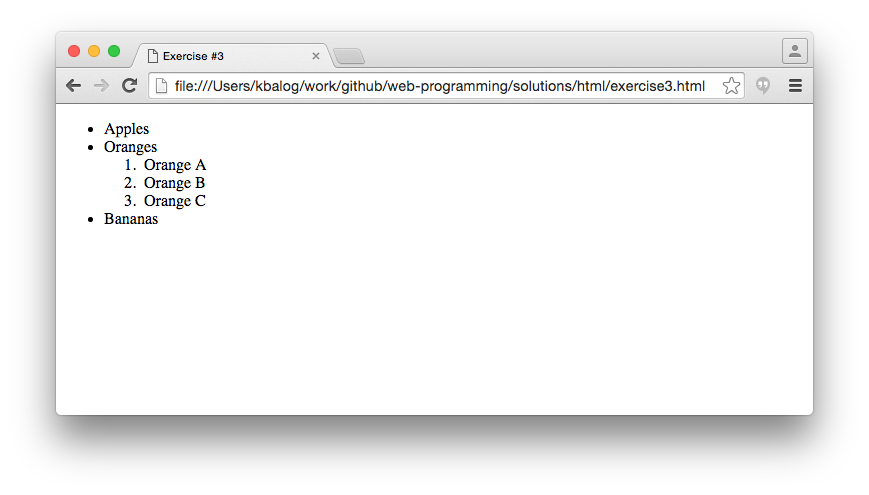
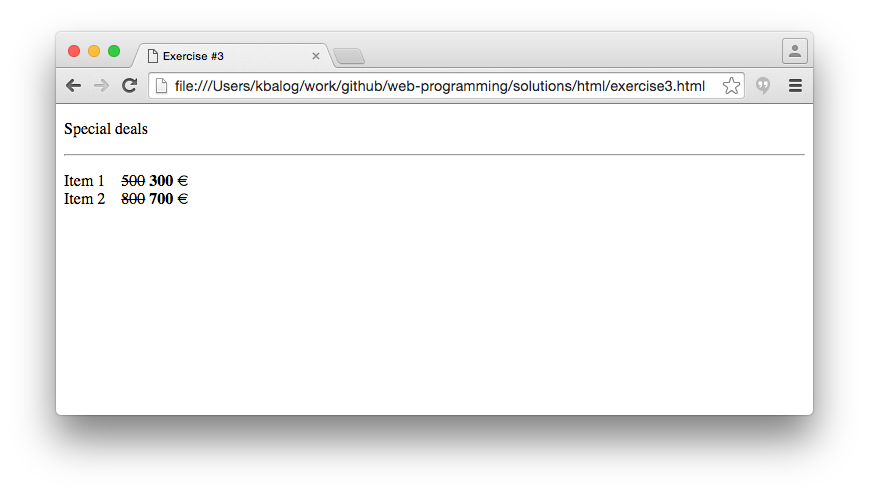
HTML exercises

Changed region(s): [[0.0621, 0.2424, 0.2486, 0.4545]]

diff --git a/solutions/html/exercise7.html b/solutions/html/exercise7.html
@@ -1,0 +1,55 @@
+<!DOCTYPE html>
+<html>
+<head>
+    <title>Exercise #7</title>
+</head>
+<body>
+    <h1>Exercises #1-#6</h1>
+    <table border="1">
+        <thead>
+            <tr>
+                <th>Number</th>
+                <th>Title</th>
+                <th>File</th>
+            </tr>
+        </thead>
+        <tbody>
+            <tr>
+                <td>#1</td>
+                <td>Hello world</td>
+                <td><a href="exercise1.html" target="_blank">exercise1.html</a></td>
+            </tr>
+            <tr>
+                <td>#2</td>
+                <td>Headings and paragraphs</td>
+                <td><a href="exercise2.html" target="_blank">exercise2.html</a></td>
+            </tr>
+            <tr>
+                <td>#3</td>
+                <td>Text formatting</td>
+                <td><a href="exercise3.html" target="_blank">exercise3.html</a></td>
+            </tr>
+            <tr>
+                <td>#4</td>
+                <td>Lists</td>
+                <td><a href="exercise4.html" target="_blank">exercise4.html</a></td>
+            </tr>
+            <tr>
+                <td>#4b</td>
+                <td>Advanced lists</td>
+                <td><a href="exercise4b.html" target="_blank">exercise4b.html</a></td>
+            </tr>
+            <tr>
+                <td>#5</td>
+                <td>Tables</td>
+                <td><a href="exercise5.html" target="_blank">exercise5.html</a></td>
+            </tr>
+            <tr>
+                <td>#6</td>
+                <td>Links</td>
+                <td><a href="exercise6.html" target="_blank">exercise6.html</a></td>
+            </tr>
+        </tbody>
+    </table>
+</body>
+</html>

diff --git a/solutions/html/exercise5.html b/solutions/html/exercise5.html
@@ -1,0 +1,58 @@
+<!DOCTYPE html>
+<html>
+<head>
+    <title>Exercise #5</title>
+</head>
+<body>
+
+<!-- first table -->
+<table border="1">
+    <thead>
+        <tr>
+            <th>HeadCol 1</th>
+            <th>HeadCol 2</th>
+            <th>HeadCol 3</th>
+        </tr>
+    </thead>
+    <tbody>
+        <tr>
+            <td>Row 1, Col 1</td>
+            <td>Row 1, Col 2</td>
+            <td>Row 1, Col 3</td>
+        </tr>
+        <tr>
+            <td>Row 2, Col 1</td>
+            <td>Row 2, Col 2</td>
+            <td>Row 2, Col 3</td>
+        </tr>
+    </tbody>
+</table>
+
+<!-- some empty space between the tables -->
+<p>&nbsp;</p>
+
+<!-- second table -->
+<table border="1">
+    <tr>
+        <td rowspan="2">Row 1-2, Col 1</td>
+        <td>Row 1, Col 2</td>
+        <td>Row 1, Col 3</td>
+        <td>Row 1, Col 4</td>
+    </tr>
+    <tr>
+        <td rowspan="2" colspan="2">Row 2-3, Col 2-3</td>
+        <td>Row 2, Col 4</td>
+    </tr>
+    <tr>
+        <td>Row 3, Col 1</td>
+        <td>Row 3, Col 4</td>
+    </tr>
+    <tr>
+        <td>Row 4, Col 1</td>
+        <td>Row 4, Col 2</td>
+        <td colspan="2">Row 4, Col 3-4</td>
+    </tr>
+</table>
+
+</body>
+</html>

diff --git a/solutions/html/exercise3.html b/solutions/html/exercise3.html
@@ -4,16 +4,14 @@
     <title>Exercise #3</title>
 </head>
 <body>
-    <ul>
-        <li>Apples</li>
-        <li>Oranges
-            <ol>
-                <li>Orange A</li>
-                <li>Orange B</li>
-                <li>Orange C</li>
-            </ol>
-        </li>
-        <li>Bananas</li>
-    </ul>
+    <p>
+        Special deals
+    </p>
+    <hr/>
+    <p>
+        Item 1 &nbsp;&nbsp; <s>500</s> <strong>300</strong> &euro;
+        <br/>
+        Item 2 &nbsp;&nbsp; <s>800</s> <strong>700</strong> &euro;
+    </p>
 </body>
 </html>

diff --git a/solutions/html/exercise4.html b/solutions/html/exercise4.html
@@ -1,0 +1,19 @@
+<!DOCTYPE html>
+<html>
+<head>
+    <title>Exercise #4</title>
+</head>
+<body>
+    <ul>
+        <li>Apples</li>
+        <li>Oranges
+            <ol>
+                <li>Orange A</li>
+                <li>Orange B</li>
+                <li>Orange C</li>
+            </ol>
+        </li>
+        <li>Bananas</li>
+    </ul>
+</body>
+</html>

diff --git a/solutions/html/exercise6.html b/solutions/html/exercise6.html
@@ -1,0 +1,13 @@
+<!DOCTYPE html>
+<html>
+<head>
+    <title>Exercise #6</title>
+</head>
+<body>
+    <ul>
+        <li><a href="http://www.uis.no">UiS</a></li>
+        <li><a href="https://www.google.com" target="_blank">Google</a></li>
+        <li><a href="mailto:contact@address.com">Contact</a></li>
+    </ul>
+</body>
+</html>

diff --git a/solutions/html/exercise4b.html b/solutions/html/exercise4b.html
@@ -1,7 +1,7 @@
 <!DOCTYPE html>
 <html>
 <head>
-    <title>Exercise #3b</title>
+    <title>Exercise #4b</title>
 </head>
 <body>
     <ul style="list-style-type:square">

diff --git a/exercises/html/README.md b/exercises/html/README.md
@@ -28,16 +28,25 @@ Create the following HTML page. You can use a text editor or the [w3schools try-
 ![Exercise2](images/exercise2.png)
 
 
-## Exercise #3: Lists
+## Exercise #3: Text formatting
+
+Create the HTML page below.
+
+  - Hint: use `<hr>`, `<br>`, `<strong>`, `<s>`, `&nbsp;`, `&euro;`.
+
+![Exercise3](images/exercise3.png)
+
+
+## Exercise #4: Lists
 
 Create an ordered list nested inside an unordered list.
 
-  - Use the tags `<ol>`, `<ul>`, `<li>`.
+  - Tags to use: `<ol>`, `<ul>`, `<li>`.
 
-![Exercise3](images/exercise3.png)
+![Exercise4](images/exercise4.png)
   
 
-## Exercise #3b: Advanced lists
+## Exercise #4b: Advanced lists
 
 Building on the previous exercise, make the following changes:
 
@@ -47,17 +56,37 @@ Building on the previous exercise, make the following changes:
   - See [this page](http://www.w3schools.com/html/html_lists.asp) for how to change list markers.
   - See [this page](http://www.w3schools.com/tags/tag_ol.asp) for reference on ordered lists.
 
-![Exercise3b](images/exercise3b.png)
+![Exercise4b](images/exercise4b.png)
 
 
-## Exercise 4
+## Exercise 5: Tables
 
-## Exercise 5
+Create the tables below.
 
-## Exercise #6: Table of contents
+  - Add border for better visibility: `<table border="1">`.
+  - Tags to use: `<table>`, `<thead>`, `<tbody>`, `<tr>`, `<th>`, `<td>`.
 
-Create a table of contents for the Exercises #1-#5.
+![Exercise5](images/exercise5.png)
 
-  - 
 
+## Exercise #6: Links
+
+Create the HTML page below.
+
+  - The first link points to _http://uis.no_.
+  - The second link points to _https://google.com_ and opens it in a new window.
+  - The third link opens an e-mail to _contact@address.com_.
+
+![Exercise6](images/exercise6.png)
+
+
+## Exercise #7: Table of contents
+
+Create a table of contents for Exercises #1-#6.
+
+  - The header (`<h1>`) says _Exercises #1-#6_.
+  - The table has a header and three columns.
+  - The links should open in a new window.
+
+![Exercise7](images/exercise7.png)
 
